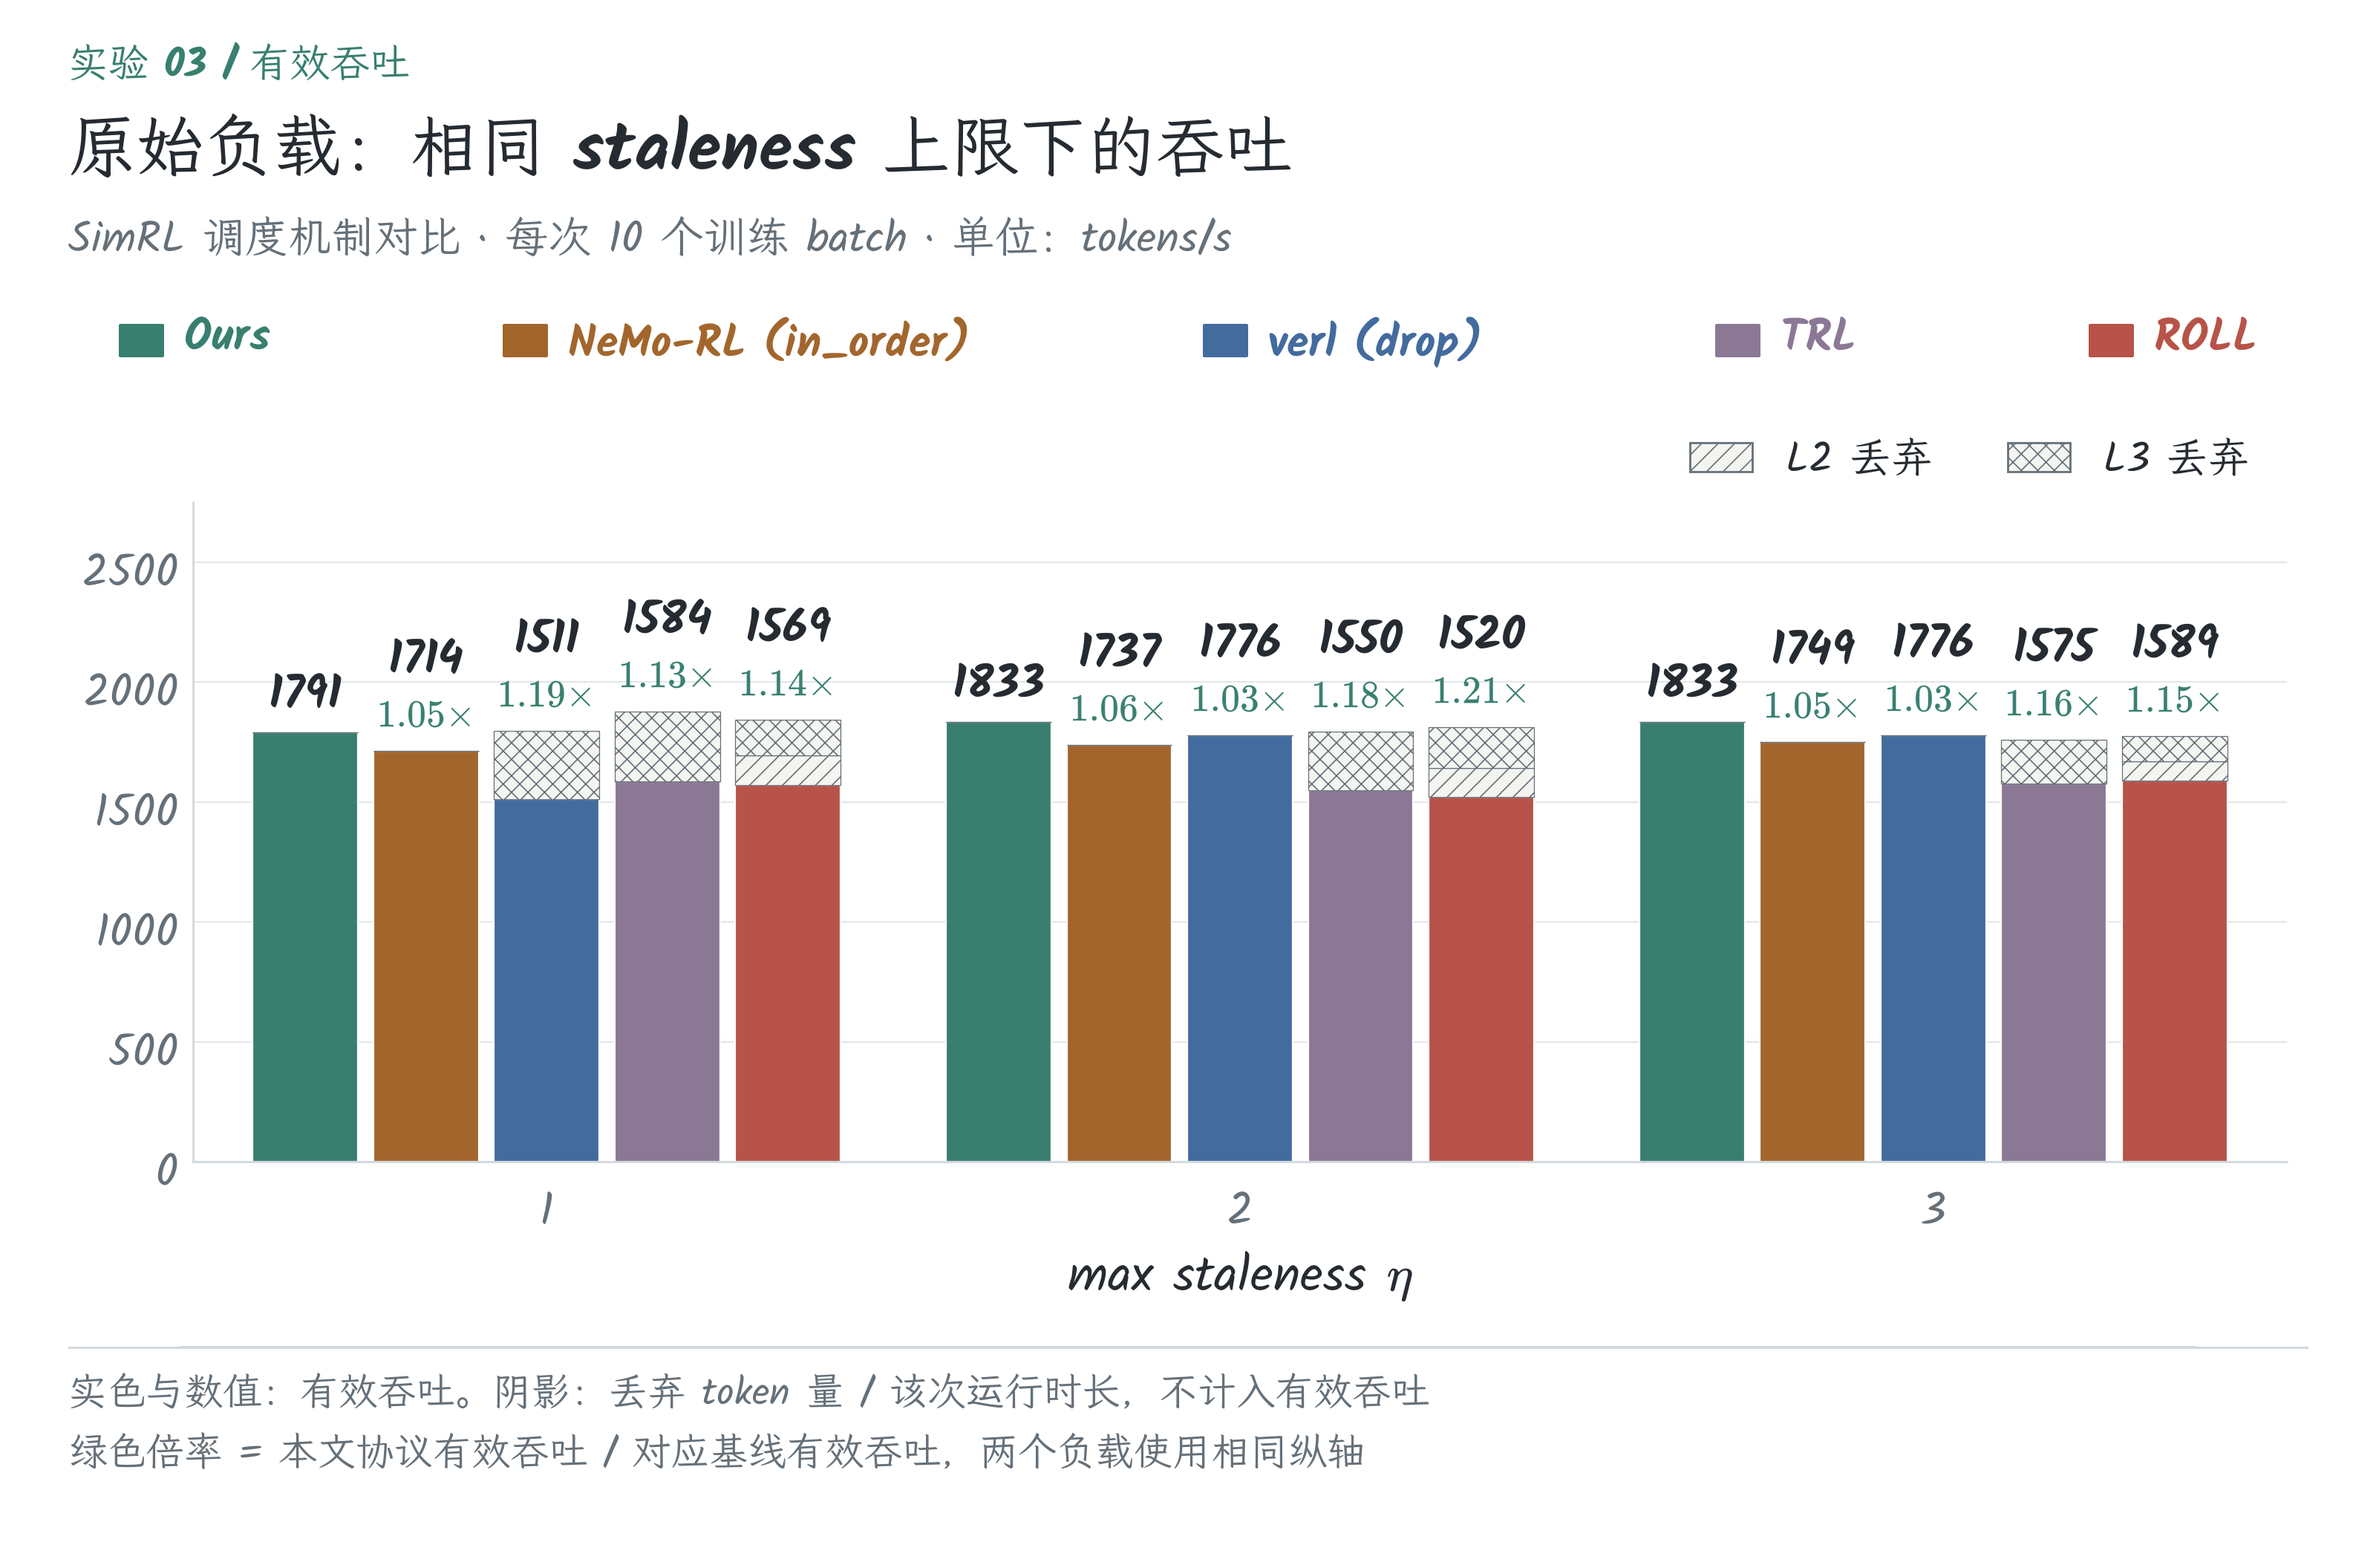
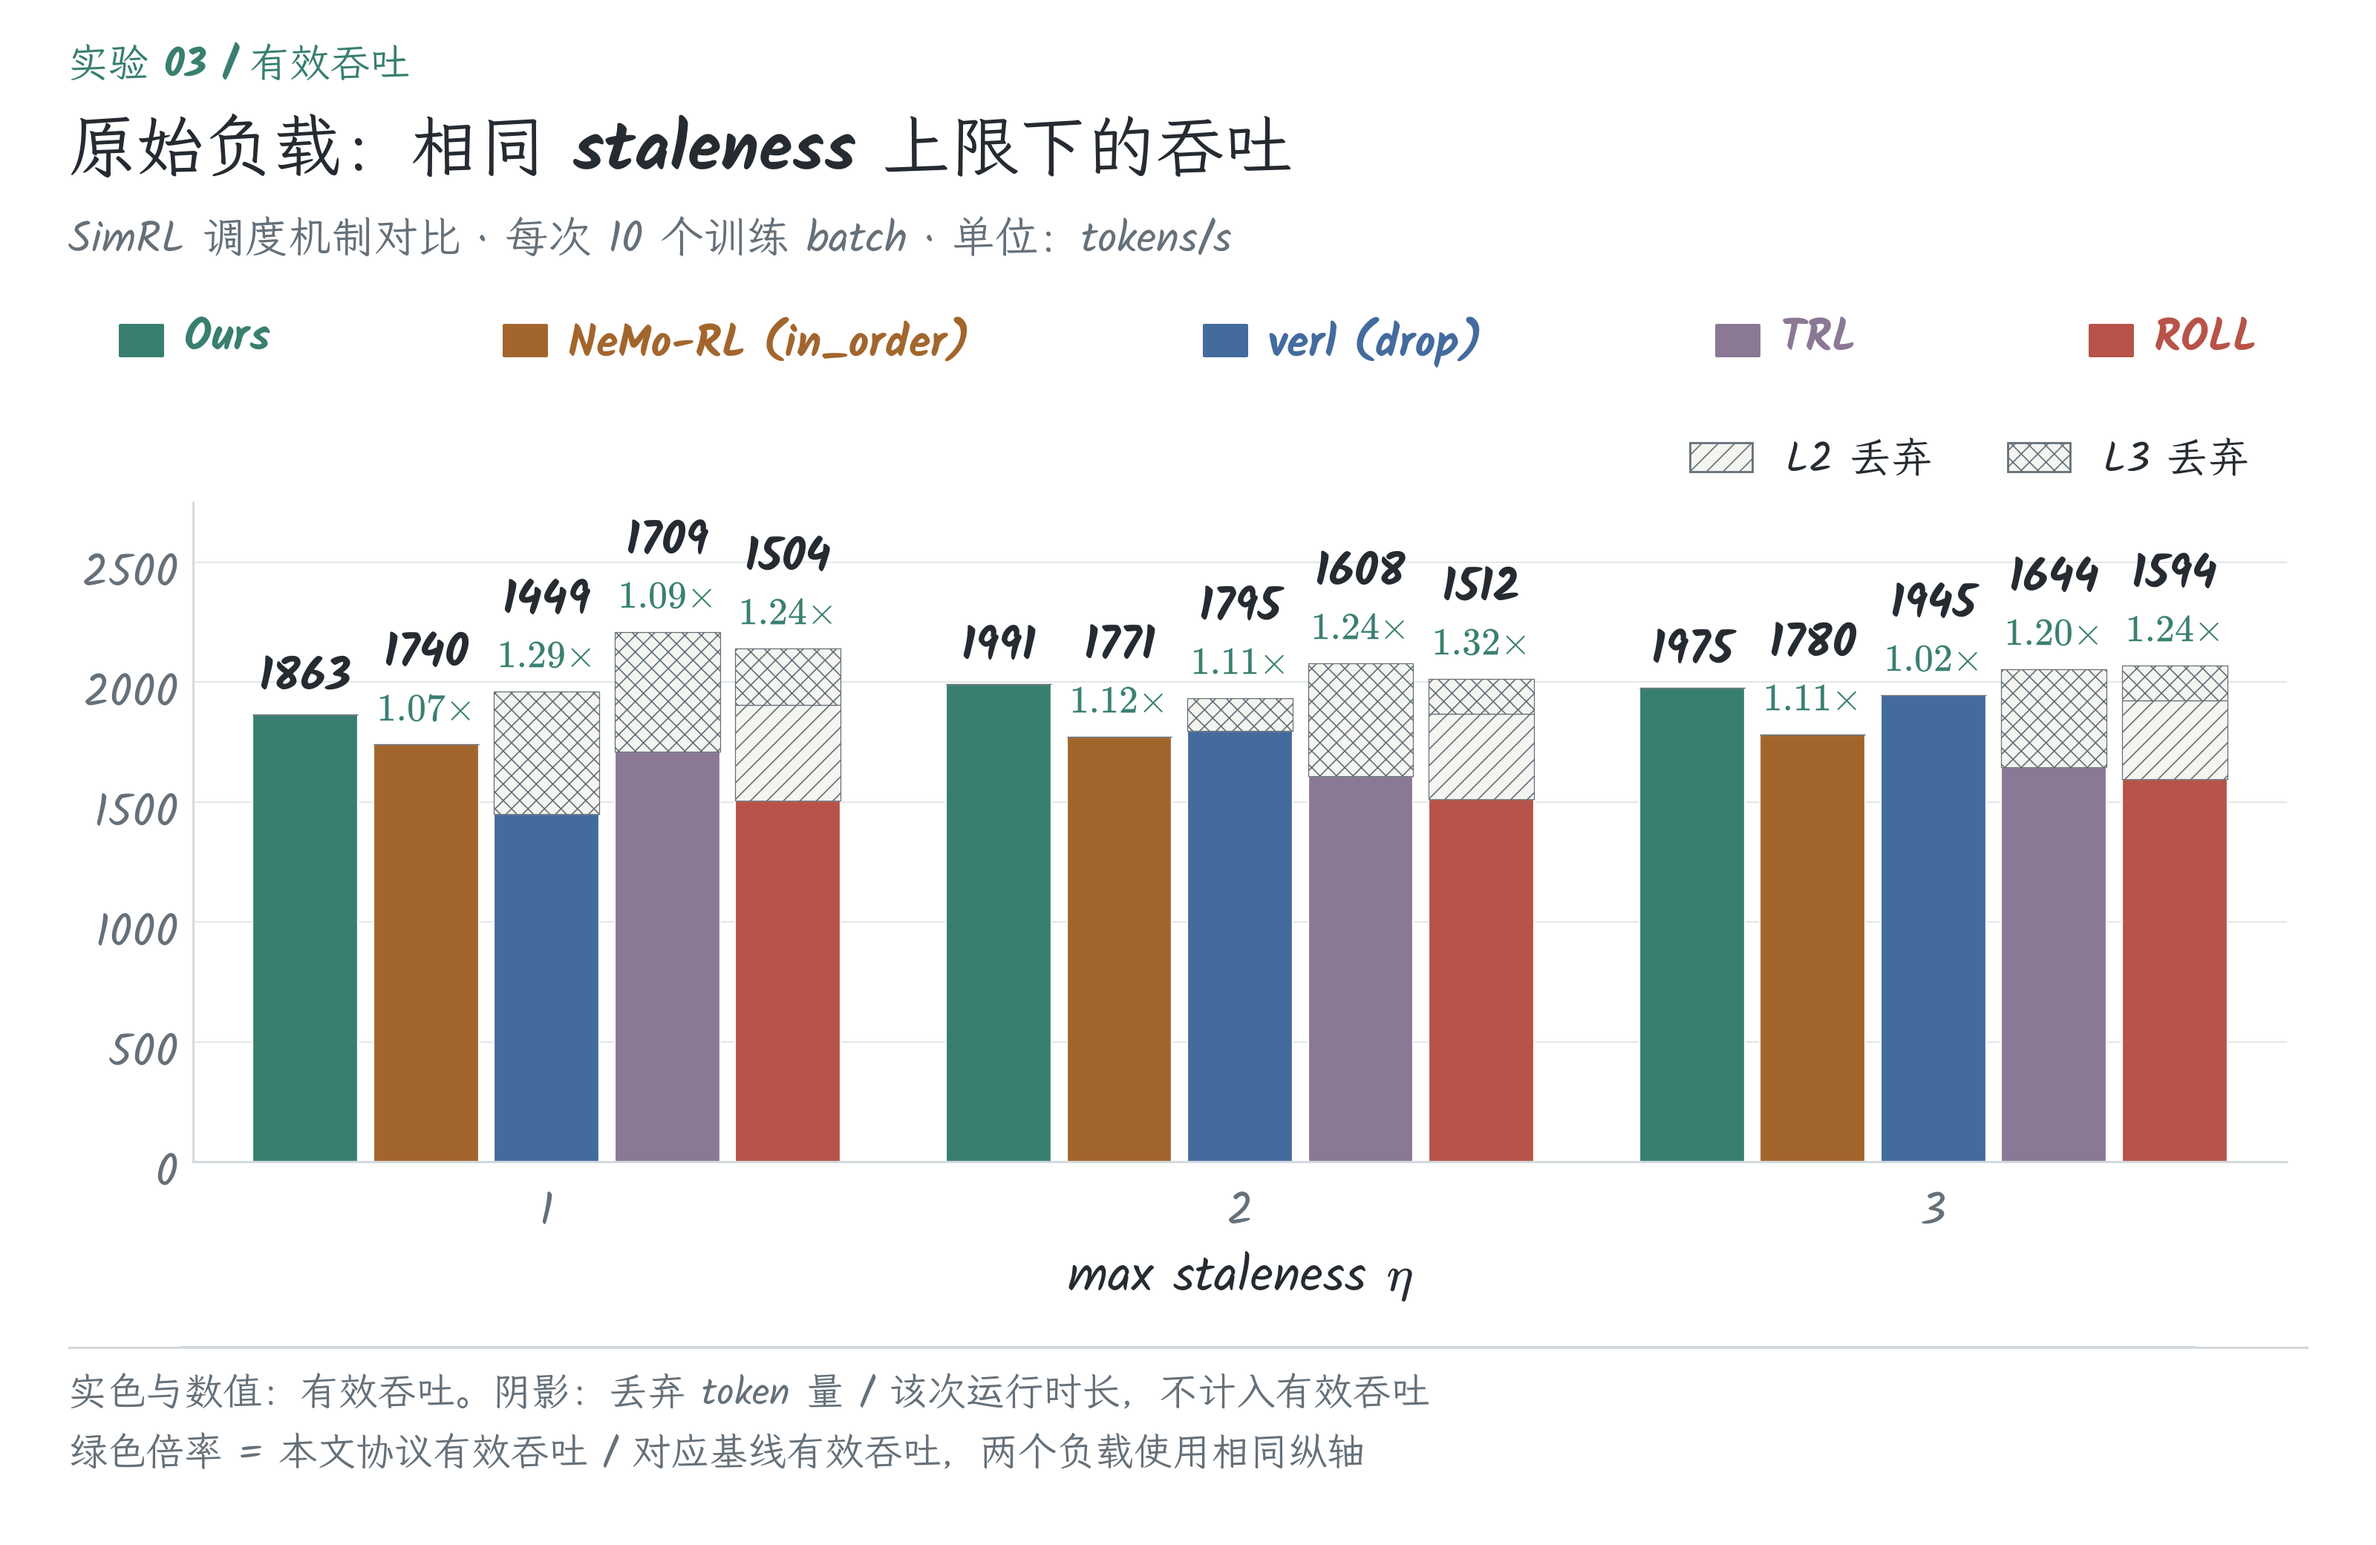
Correct original-workload throughput data and analysis

Changed region(s): [[0.0938, 0.3438, 0.6562, 0.5312], [0.6875, 0.3438, 0.9375, 0.5312], [0.5312, 0.5, 0.5938, 0.5312]]

diff --git a/_blog/psrl-staleness.md b/_blog/psrl-staleness.md
@@ -347,23 +347,23 @@ $$
 
 原始负载下的结果如下：
 
-[![原始负载下的有效吞吐与 L2、L3 丢弃开销]({{ '/assets/blog/psrl-staleness/exp/ours_vs_nemo_vs_verl_vs_roll_throughput_v10-blog.png' | relative_url }})]({{ '/assets/blog/psrl-staleness/exp/ours_vs_nemo_vs_verl_vs_roll_throughput_v10-blog.png' | relative_url }})
+[![原始负载下的有效吞吐与 L2、L3 丢弃开销]({{ '/assets/blog/psrl-staleness/exp/ours_vs_nemo_vs_verl_vs_roll_throughput_v10-blog.png?v=20261102-corrected' | relative_url }})]({{ '/assets/blog/psrl-staleness/exp/ours_vs_nemo_vs_verl_vs_roll_throughput_v10-blog.png?v=20261102-corrected' | relative_url }})
 
 长尾更显著时的结果如下：
 
 [![构造长尾负载下的有效吞吐与 L2、L3 丢弃开销]({{ '/assets/blog/psrl-staleness/exp/ours_vs_nemo_vs_verl_vs_roll_throughput_v10_longtail-blog.png' | relative_url }})]({{ '/assets/blog/psrl-staleness/exp/ours_vs_nemo_vs_verl_vs_roll_throughput_v10_longtail-blog.png' | relative_url }})
 
-**首先，我们对比同样不依赖超限丢弃的 NeMo-RL `in_order`。** 在原始负载下，我们的有效吞吐约为它的 $$1.05\text{–}1.06$$ 倍，长尾负载下则约为 $$1.08\text{–}1.13$$ 倍。
+**首先，我们对比同样不依赖超限丢弃的 NeMo-RL `in_order`。** 在原始负载下，我们的有效吞吐约为它的 $$1.07\text{–}1.12$$ 倍，长尾负载下则约为 $$1.08\text{–}1.13$$ 倍。
 
 这一差距与前文讨论的两套机制的区别相吻合。`in_order` 在生成前就固定了训练 batch，而我们的协议通过 *Reserve* 为每个 group 保留合法位置，再通过 *Occupy* 根据实际完成顺序调整放置。这样，完成较快的 group 可以更早凑齐当前 batch，长尾 group 则能在合法范围内后移。因此，相比于固定安排 batch，我们的协议更加灵活，在维持 staleness 约束且不丢弃数据的前提下，可以最大程度地优化系统性能。
 
-**其次，我们对比依赖 L3 过滤的 verl `drop` 和 TRL。** 原始负载、$$\eta=1$$ 时，verl 有明显的超限丢弃，我们的有效吞吐约为它的 $$1.19$$ 倍。当 $$\eta$$ 增大到 $$2$$ 或 $$3$$ 后，verl 不再出现超限丢弃，吞吐差距也缩小到约 $$1.03$$ 倍。这是因为，在这组负载下，较紧的 L1 准入（`num_warmup_batches=1`）配合更宽的 staleness 上限，就已经能够彻底避免 staleness 超限导致的大量浪费了。
+**其次，我们对比依赖 L3 过滤的 verl `drop` 和 TRL。** 原始负载、$$\eta=1$$ 时，verl 有明显的超限丢弃，我们的有效吞吐约为它的 $$1.29$$ 倍。当 $$\eta=2$$ 时，verl 仍有一部分数据在 L3 被丢弃，我们的有效吞吐约为它的 $$1.11$$ 倍。直到 $$\eta=3$$，verl 才不再出现超限丢弃，吞吐差距也缩小到约 $$1.02$$ 倍。这说明，在这组负载下，较紧的 L1 准入（`num_warmup_batches=1`）配合更宽的 staleness 上限，可以逐步减少超限丢弃，但在 $$\eta=2$$ 时还不足以完全避免。
 
 不过，当我们进一步加重负载的长尾效应时，即使 $$\eta=2$$ 或 $$3$$，verl 仍有数据在 L3 被丢弃。此时，我们的有效吞吐分别约为它的 $$1.13$$、$$1.12$$ 倍。可见，L1 的数量限制能够减少积压，但遇到更慢更长尾的数据时，仍可能需要在 L3 丢弃数据来保证 staleness 上限。
 
-而对于 TRL，L1 准入量随 staleness 设置一同扩大，并未被限制为固定值，这导致在所有的测试点上，TRL 都出现了 L3 丢弃。不过，也不能仅凭丢弃量就判定它一定更慢。例如，原始负载、$$\eta=1$$ 时，TRL 的有效吞吐约为 $$1584$$ tokens/s，高于 verl 的 $$1511$$。这也说明，限制准入是在生成并发与丢弃浪费之间做取舍，实际效果并不能简单预测，需要看最终的有效吞吐。
+而对于 TRL，L1 准入量随 staleness 设置一同扩大，并未被限制为固定值，这导致在所有的测试点上，TRL 都出现了 L3 丢弃。不过，也不能仅凭丢弃量就判定它一定更慢。例如，原始负载、$$\eta=1$$ 时，TRL 的有效吞吐约为 $$1709$$ tokens/s，高于 verl 的 $$1449$$。这也说明，限制准入是在生成并发与丢弃浪费之间做取舍，实际效果并不能简单预测，需要看最终的有效吞吐。
 
-**最后，我们对比进一步加入 L2 淘汰的 ROLL。** ROLL 可以提前停止已经超限的 trajectory，避免继续生成后续 token，但具体收益还取决于 staleness 上限和具体的分布。例如，长尾负载、$$\eta=1$$ 时，ROLL 的有效吞吐约为 $$1421$$ tokens/s，高于 verl 的 $$1282$$，却低于 TRL 的 $$1471$$。原始负载、$$\eta=2$$ 时，ROLL 的 $$1520$$ 也低于另外两者。因此，L2 提前淘汰有助于减少继续生成的浪费，但也不能保证整体有效吞吐一定更高。
+**最后，我们对比进一步加入 L2 淘汰的 ROLL。** ROLL 可以提前停止已经超限的 trajectory，避免继续生成后续 token，但具体收益还取决于 staleness 上限和具体的分布。例如，长尾负载、$$\eta=1$$ 时，ROLL 的有效吞吐约为 $$1421$$ tokens/s，高于 verl 的 $$1282$$，却低于 TRL 的 $$1471$$。原始负载、$$\eta=2$$ 时，ROLL 的 $$1512$$ 也低于另外两者。因此，L2 提前淘汰有助于减少继续生成的浪费，但也不能保证整体有效吞吐一定更高。
 
 总的来看，在本次两种负载、$$3$$ 个 staleness 上限的测试点中，我们这套 *Reserve*-*Occupy* 协议的有效吞吐均为最高，同时没有依靠丢弃超限数据来维持 staleness 上限。我们在准入时为每条 trajectory 保留合法位置，在完成后再根据当前状态调整放置，既避免了超限丢弃造成的浪费，也为更早凑齐训练 batch 留出了空间。
 
